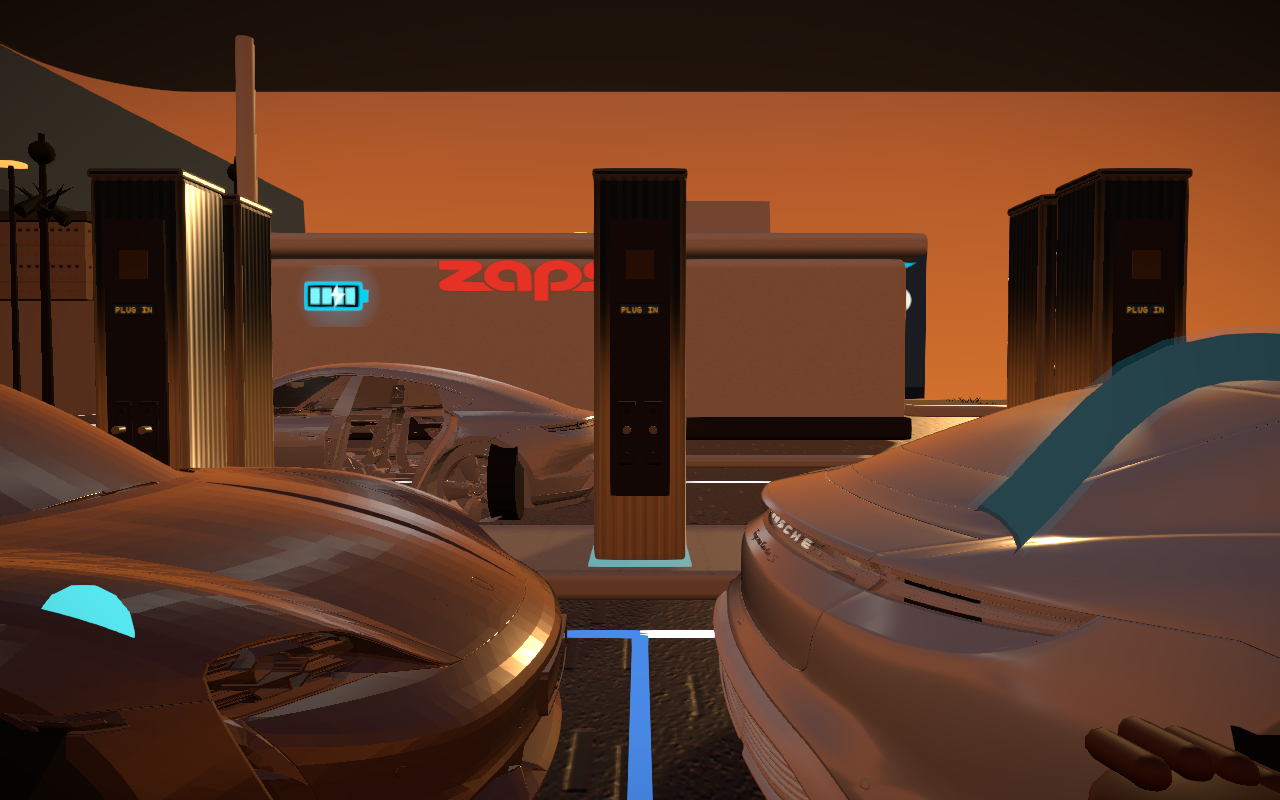
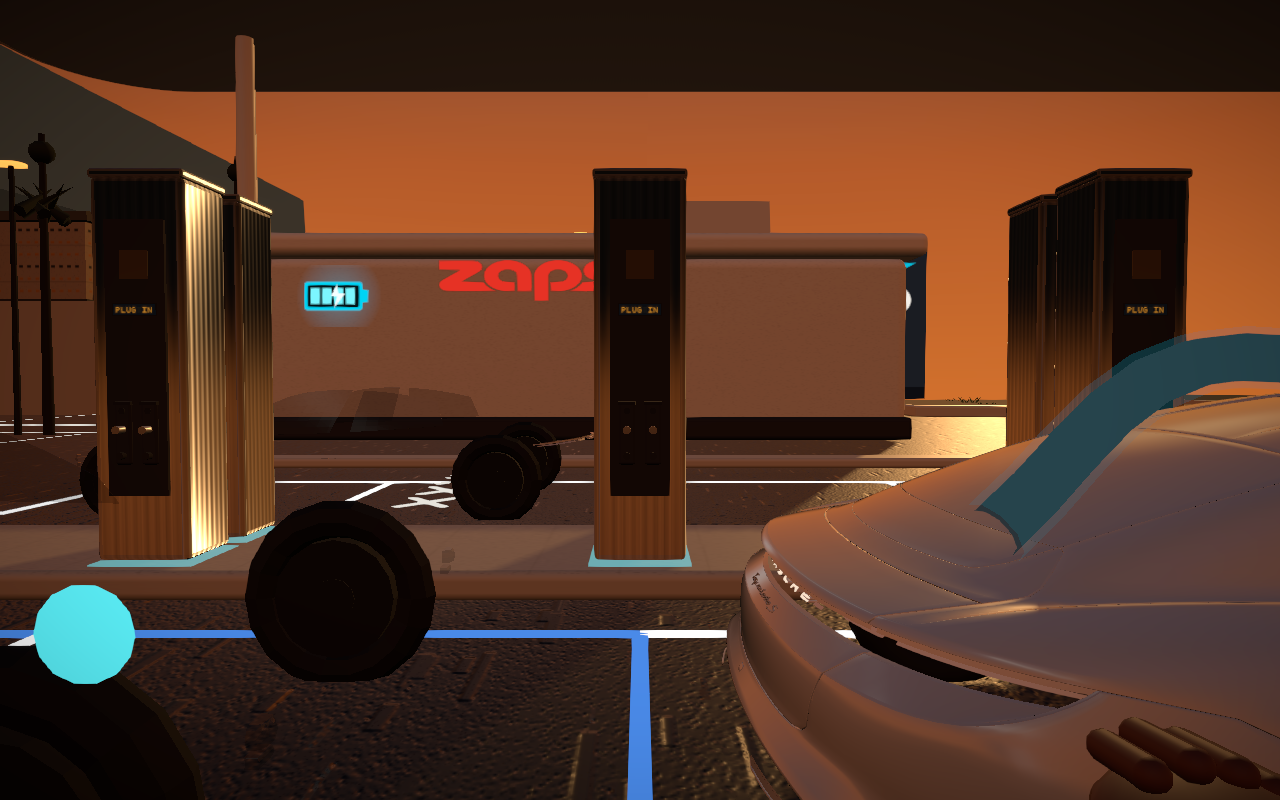
fix: drop Glass helper shell and seat torus studio wheels
Do not keep the full-car Glass overlay (x-ray hull). Stock tires and
wire helpers stay pruned. Studio wheels are now a torus + rim on the
Z axle so they read as one set, not stacked cylinders. Recapture
lot-rear34, slim-zeus, and startnight.

diff --git a/src/world/cars.ts b/src/world/cars.ts
@@ -103,7 +103,6 @@ function isExteriorKeep(n: string): boolean {
     n.includes("primary") ||
     n.includes("glasswinds") ||
     n.includes("blueglass") ||
-    (n.includes("glass") && !n.includes("int")) ||
     n.includes("extaluminium")
   );
 }
@@ -184,16 +183,15 @@ const wheelRimMat = new THREE.MeshPhysicalMaterial({
   roughness: 0.18,
   envMapIntensity: 1.05,
 });
-const wheelTireGeo = new THREE.CylinderGeometry(0.33, 0.33, 0.22, 18);
-const wheelRimGeo = new THREE.CylinderGeometry(0.22, 0.22, 0.16, 16);
-const wheelHubGeo = new THREE.CylinderGeometry(0.08, 0.08, 0.17, 12);
+const wheelTireGeo = new THREE.TorusGeometry(0.3, 0.075, 8, 18);
+const wheelRimGeo = new THREE.CylinderGeometry(0.23, 0.23, 0.14, 16);
+const wheelHubGeo = new THREE.CylinderGeometry(0.08, 0.08, 0.15, 12);
 
 function addStudioWheels(root: THREE.Group): void {
   hideStockWheels(root);
-  const box = paintBounds(root);
-  const x0 = box.min.x + 0.82;
-  const x1 = box.max.x - 0.82;
-  const z = Math.max(0.74, (box.max.z - box.min.z) * 0.41);
+  const x0 = -1.52;
+  const x1 = 1.52;
+  const z = 0.82;
   const y = 0.33;
   for (const hubAt of [
     new THREE.Vector3(x0, y, z),
@@ -202,38 +200,19 @@ function addStudioWheels(root: THREE.Group): void {
     new THREE.Vector3(x1, y, -z),
   ]) {
     const tire = new THREE.Mesh(wheelTireGeo, wheelTireMat);
-    tire.rotation.z = Math.PI / 2;
     tire.position.copy(hubAt);
     tire.castShadow = true;
     tire.userData.studioWheel = true;
     const rim = new THREE.Mesh(wheelRimGeo, wheelRimMat);
-    rim.rotation.z = Math.PI / 2;
+    rim.rotation.x = Math.PI / 2;
     rim.position.copy(hubAt);
     rim.userData.studioWheel = true;
     const hub = new THREE.Mesh(wheelHubGeo, wheelTireMat);
-    hub.rotation.z = Math.PI / 2;
+    hub.rotation.x = Math.PI / 2;
     hub.position.copy(hubAt);
     hub.userData.studioWheel = true;
     root.add(tire, rim, hub);
   }
-}
-
-function paintBounds(root: THREE.Object3D): THREE.Box3 {
-  const box = new THREE.Box3();
-  let found = false;
-  root.traverse((o) => {
-    const mesh = o as THREE.Mesh;
-    if (!mesh.isMesh || !mesh.visible) return;
-    const n = labelKey(mesh);
-    if (!n.includes("paint") && !n.includes("primary") && !n.includes("wire_027")) return;
-    const b = new THREE.Box3().setFromObject(mesh);
-    if (!found) {
-      box.copy(b);
-      found = true;
-    } else box.union(b);
-  });
-  if (!found) box.setFromObject(root);
-  return box;
 }
 
 function dressAuthored(root: THREE.Object3D): void {
@@ -530,11 +509,14 @@ async function loadHull(kind: HullKind, file: string, fallback: () => BuiltPart[
       pruneHidden(fitted);
       inletByKind[kind] = addEvCues(fitted);
       prototypes[kind] = fitted;
-      let kept = 0;
+      const keptNames: string[] = [];
       fitted.traverse((o) => {
-        if ((o as THREE.Mesh).isMesh && o.visible) kept += 1;
+        const mesh = o as THREE.Mesh;
+        if (!mesh.isMesh || !mesh.visible) return;
+        keptNames.push(labelKey(mesh).slice(0, 48));
       });
-      fitted.userData.meshCount = kept;
+      fitted.userData.meshCount = keptNames.length;
+      fitted.userData.kept = keptNames;
       fitted.userData.source = file;
     } else {
       dressAuthored(gltf.scene);
@@ -805,6 +787,7 @@ export function trimLodFillers(drop = 1): number {
 export function hullDebug(): {
   source?: string;
   meshCount?: number;
+  kept?: string[];
   lodMeshes?: number;
   lodFillers?: number;
   fullPbr?: string[];
@@ -813,6 +796,7 @@ export function hullDebug(): {
   return {
     source: u.source,
     meshCount: u.meshCount,
+    kept: u.kept,
     lodMeshes: lodTemplate?.children.length,
     lodFillers: lodFillerRoots.length,
     fullPbr: [...FULL_PBR_IDS],

diff --git a/README.md b/README.md
@@ -46,7 +46,7 @@ Cinematic WebGL lot: ACES Filmic (exposure ~0.86) + one warm dusk `DirectionalLi
 
 Official cream/red Zaps wordmarks only. Palette: `#E63225` `#1E1E24` `#E89A2E` `#00D4F5` `#F5F0E8`.
 
-Lot PBR/env pass: merge `4c80ec6`. Guest hulls keep one exterior shell + studio wheels (no Sketchfab helper/wire/tire ghosts).
+Lot PBR/env pass: merge `4c80ec6`. Guest hulls keep one paint shell + GlassWinds + four torus studio wheels (SHA on `cursor/car-hull-ghosts-a5cf`).
 
 ## Dev
 
